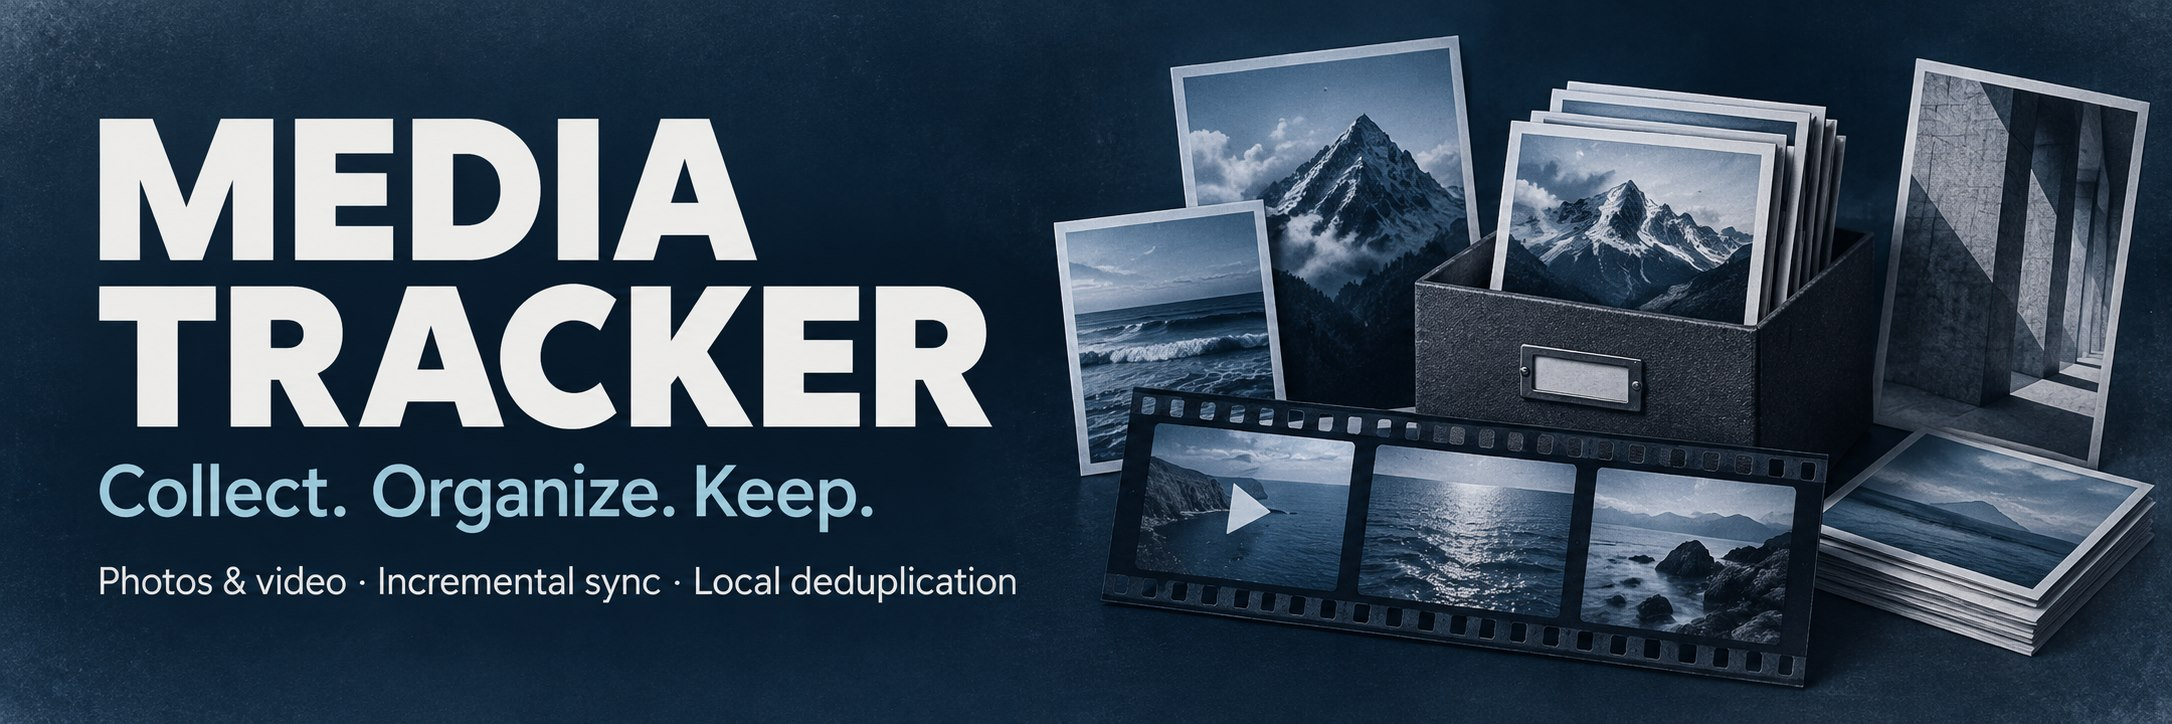
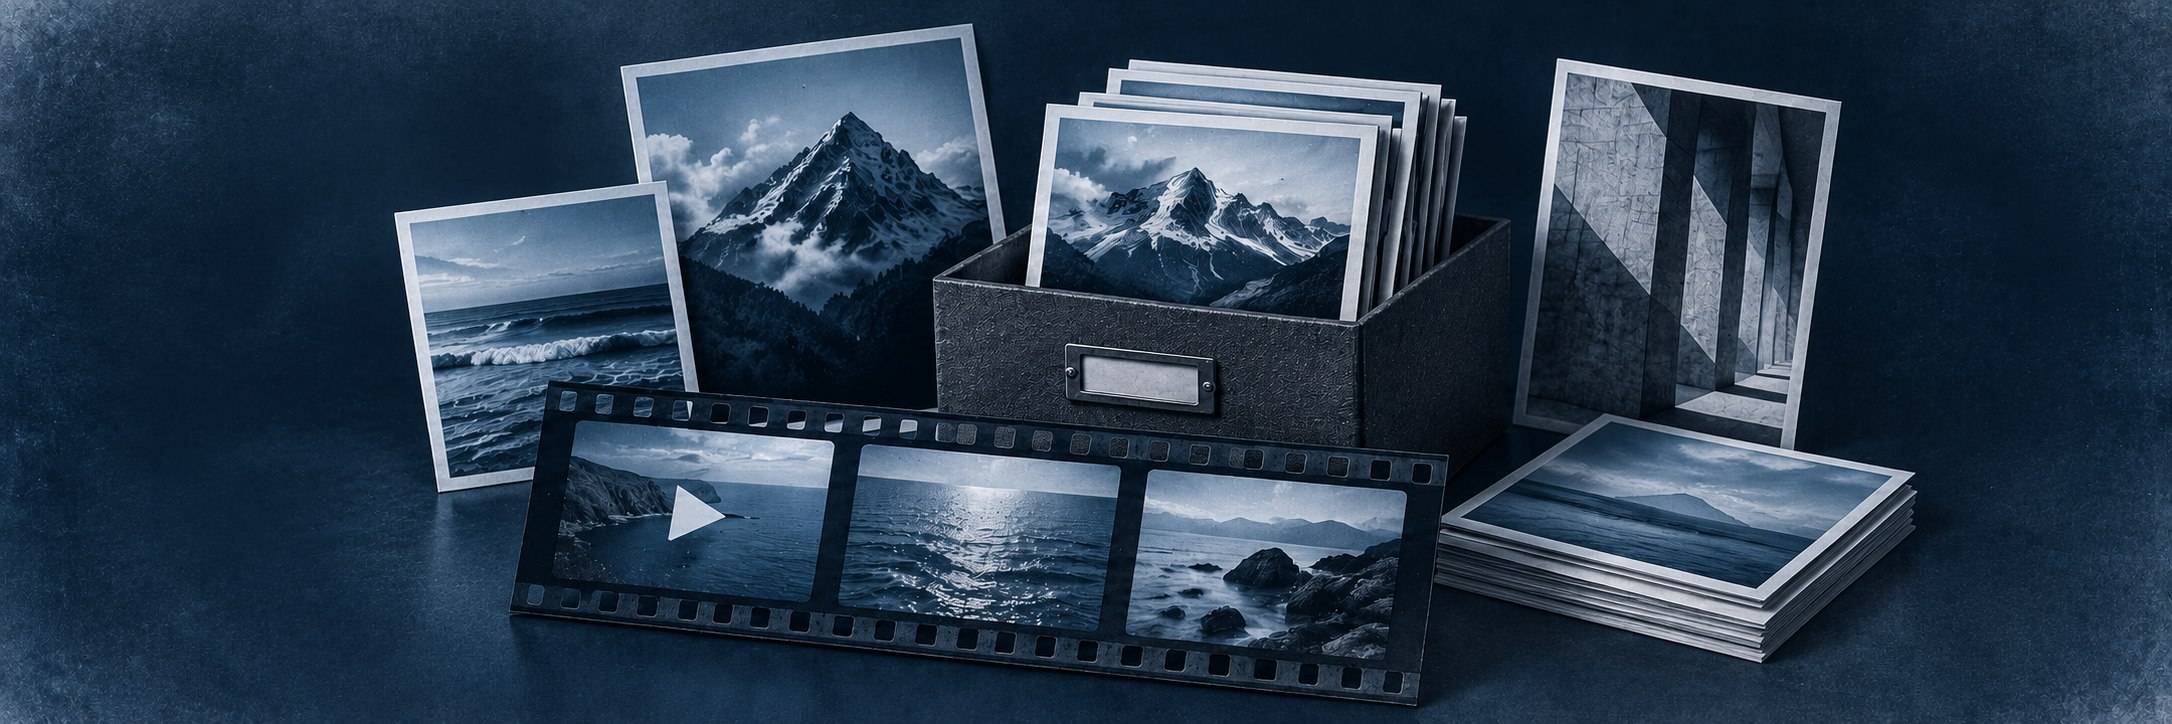
Make README cover language-neutral and localize its copy

diff --git a/README.md b/README.md
@@ -1,4 +1,4 @@
-![Media Tracker — Collect. Organize. Keep.](docs/images/media-tracker-banner.jpg)
+![Media Tracker](docs/images/media-tracker-banner.jpg)
 
 <a href="#user-content-readme-zh">简体中文</a> · <a href="#user-content-readme-en">English</a>
 
@@ -7,6 +7,10 @@
 <a name="readme-zh"></a>
 
 # Media Tracker · 采集工具
+
+**集中采集，有序整理，妥善保存。**
+
+照片与视频 · 增量同步 · 本地去重
 
 面向 Windows 的本地媒体采集与管理工具，将关注博主的照片、视频集中保存，便于持续整理与查找。
 
@@ -58,6 +62,10 @@
 <a name="readme-en"></a>
 
 # Media Tracker
+
+**Collect. Organize. Keep.**
+
+Photos & video · Incremental sync · Local deduplication
 
 A local media collection and management tool for Windows. Keep photos and videos from creators you follow in one place, ready to organize and find.
 

diff --git a/docs/README.en.md b/docs/README.en.md
@@ -1,8 +1,12 @@
-![Media Tracker — Collect. Organize. Keep.](images/media-tracker-banner.jpg)
+![Media Tracker](images/media-tracker-banner.jpg)
 
 [简体中文](../README.md#user-content-readme-zh) · [English](../README.md#user-content-readme-en)
 
 # Media Tracker
+
+**Collect. Organize. Keep.**
+
+Photos & video · Incremental sync · Local deduplication
 
 A local media collection and management tool for Windows. Keep photos and videos from creators you follow in one place, ready to organize and find.
 
